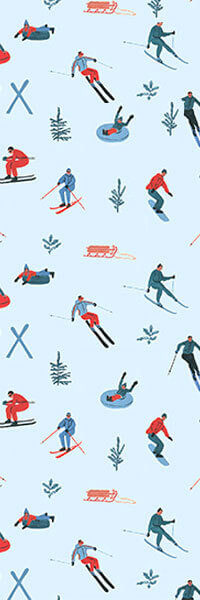
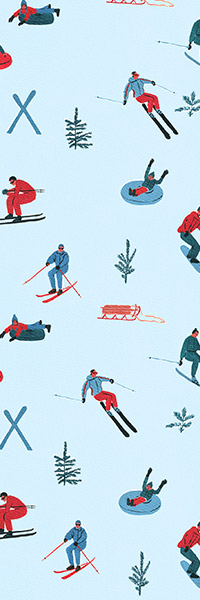
thermo new bg and mask

diff --git a/THERMO/thermo_EN-US/archive/Animation.js b/THERMO/thermo_EN-US/archive/Animation.js
@@ -45,7 +45,7 @@ home_animation = (function() {
 	
 		TweenLite.to(product_text, 0, {scaleX:.9, scaleY:.9});
 		TweenLite.to(bg, 0, {scaleX:1.25, scaleY:1.25});
-		TweenLite.to(bgMask2, 0, {scaleX:1.25, scaleY:1.25});
+
 		frame1();
 
 	}
@@ -55,7 +55,7 @@ home_animation = (function() {
 	function frame1()
 	 {
 		TweenLite.to(first_text, 1.4, {opacity:0,top:-300, delay: 3});
-		// TweenLite.to(bgMask, .8, {opacity:0, delay:3});
+		TweenLite.to(bgMask, .8, {opacity:0, delay:3});
 		TweenLite.to(product_text, .6, {top:-33, left:-72, scaleX:.6, scaleY:.6, delay:3});
 		TweenLite.to(bg, .8, {top:-20, scaleX:1, scaleY:1, delay:3});
 
@@ -67,7 +67,7 @@ home_animation = (function() {
 		// slide up white bg
 		TweenLite.to(white_BG, .6, {top:420});
 		TweenLite.to(logo, 1, {opacity:1, delay:.9});
-		TweenLite.to(bgMask2, .8, {opacity:1, scaleX:1, scaleY:1, delay:0});	
+		TweenLite.to(bgMask2, .9, {opacity:1, delay:0});		
 		TweenLite.to(second_text, 3, {opacity:1, delay:1.4, ease: Expo.easeOut});		
 		TweenLite.to(third_text, 4, {opacity:1, delay:2.6, ease: Expo.easeOut});	
 		TweenLite.delayedCall(4.5, frame3);	

diff --git a/THERMO/thermo_EN-US/thermo_160x600_en-us/Animation.js b/THERMO/thermo_EN-US/thermo_160x600_en-us/Animation.js
@@ -45,7 +45,7 @@ home_animation = (function() {
 	
 		TweenLite.to(product_text, 0, {scaleX:.9, scaleY:.9});
 		TweenLite.to(bg, 0, {scaleX:1.25, scaleY:1.25});
-
+		TweenLite.to(bgMask2, 0, {scaleX:1.25, scaleY:1.25});
 		frame1();
 
 	}
@@ -55,7 +55,7 @@ home_animation = (function() {
 	function frame1()
 	 {
 		TweenLite.to(first_text, 1.4, {opacity:0,top:-300, delay: 3});
-		TweenLite.to(bgMask, .8, {opacity:0, delay:3});
+		// TweenLite.to(bgMask, .8, {opacity:0, delay:3});
 		TweenLite.to(product_text, .6, {top:-33, left:-72, scaleX:.6, scaleY:.6, delay:3});
 		TweenLite.to(bg, .8, {top:-20, scaleX:1, scaleY:1, delay:3});
 
@@ -67,7 +67,7 @@ home_animation = (function() {
 		// slide up white bg
 		TweenLite.to(white_BG, .6, {top:420});
 		TweenLite.to(logo, 1, {opacity:1, delay:.9});
-		TweenLite.to(bgMask2, .9, {opacity:1, delay:0});		
+		TweenLite.to(bgMask2, .8, {opacity:1, scaleX:1, scaleY:1, delay:0});	
 		TweenLite.to(second_text, 3, {opacity:1, delay:1.4, ease: Expo.easeOut});		
 		TweenLite.to(third_text, 4, {opacity:1, delay:2.6, ease: Expo.easeOut});	
 		TweenLite.delayedCall(4.5, frame3);	

diff --git a/THERMO/thermo_FR-CA/thermo_160x600_fr-ca/Animation.js b/THERMO/thermo_FR-CA/thermo_160x600_fr-ca/Animation.js
@@ -45,7 +45,7 @@ home_animation = (function() {
 	
 		TweenLite.to(product_text, 0, {scaleX:.9, scaleY:.9});
 		TweenLite.to(bg, 0, {scaleX:1.25, scaleY:1.25});
-
+		TweenLite.to(bgMask2, 0, {scaleX:1.25, scaleY:1.25});
 		frame1();
 
 	}
@@ -55,7 +55,7 @@ home_animation = (function() {
 	function frame1()
 	 {
 		TweenLite.to(first_text, 1.4, {opacity:0,top:-300, delay: 3});
-		TweenLite.to(bgMask, .8, {opacity:0, delay:3});
+		// TweenLite.to(bgMask, .8, {opacity:0, delay:3});
 		TweenLite.to(product_text, .6, {top:-33, left:-72, scaleX:.6, scaleY:.6, delay:3});
 		TweenLite.to(bg, .8, {top:-20, scaleX:1, scaleY:1, delay:3});
 
@@ -67,7 +67,7 @@ home_animation = (function() {
 		// slide up white bg
 		TweenLite.to(white_BG, .6, {top:420});
 		TweenLite.to(logo, 1, {opacity:1, delay:.9});
-		TweenLite.to(bgMask2, .9, {opacity:1, delay:0});		
+		TweenLite.to(bgMask2, .8, {opacity:1, scaleX:1, scaleY:1, delay:0});	
 		TweenLite.to(second_text, 3, {opacity:1, delay:1.4, ease: Expo.easeOut});		
 		TweenLite.to(third_text, 4, {opacity:1, delay:2.6, ease: Expo.easeOut});	
 		TweenLite.delayedCall(4.5, frame3);	

diff --git a/THERMO/thermo_EN-US/archive/160x600.html b/THERMO/thermo_EN-US/archive/160x600.html
@@ -14,7 +14,7 @@
 <!-- Frame one --> 
 <div id="first_text"><img src="first_text.png"></div>
 <div id="product_text"><img src="product.png"></div>
-<!-- <div id="bgMask"><img src="bgMask.png"></div> -->
+<div id="bgMask"><img src="bgMask.png"></div>
 <div id="bgMask2"><img src="bgMask2.png"></div>
 <div id="second_text"><img src="second_text.png"></div>
 <div id="third_text"><img src="third_text.png"></div>

diff --git a/THERMO/thermo_EN-US/thermo_160x600_en-us/160x600.html b/THERMO/thermo_EN-US/thermo_160x600_en-us/160x600.html
@@ -14,7 +14,7 @@
 <!-- Frame one --> 
 <div id="first_text"><img src="first_text.png"></div>
 <div id="product_text"><img src="product.png"></div>
-<div id="bgMask"><img src="bgMask.png"></div>
+<!-- <div id="bgMask"><img src="bgMask.png"></div> -->
 <div id="bgMask2"><img src="bgMask2.png"></div>
 <div id="second_text"><img src="second_text.png"></div>
 <div id="third_text"><img src="third_text.png"></div>

diff --git a/THERMO/thermo_FR-CA/thermo_160x600_fr-ca/160x600.html b/THERMO/thermo_FR-CA/thermo_160x600_fr-ca/160x600.html
@@ -14,7 +14,7 @@
 <!-- Frame one --> 
 <div id="first_text"><img src="first_text.png"></div>
 <div id="product_text"><img src="product.png"></div>
-<div id="bgMask"><img src="bgMask.png"></div>
+<!-- <div id="bgMask"><img src="bgMask.png"></div> -->
 <div id="bgMask2"><img src="bgMask2.png"></div>
 <div id="second_text"><img src="second_text.png"></div>
 <div id="third_text"><img src="third_text.png"></div>
